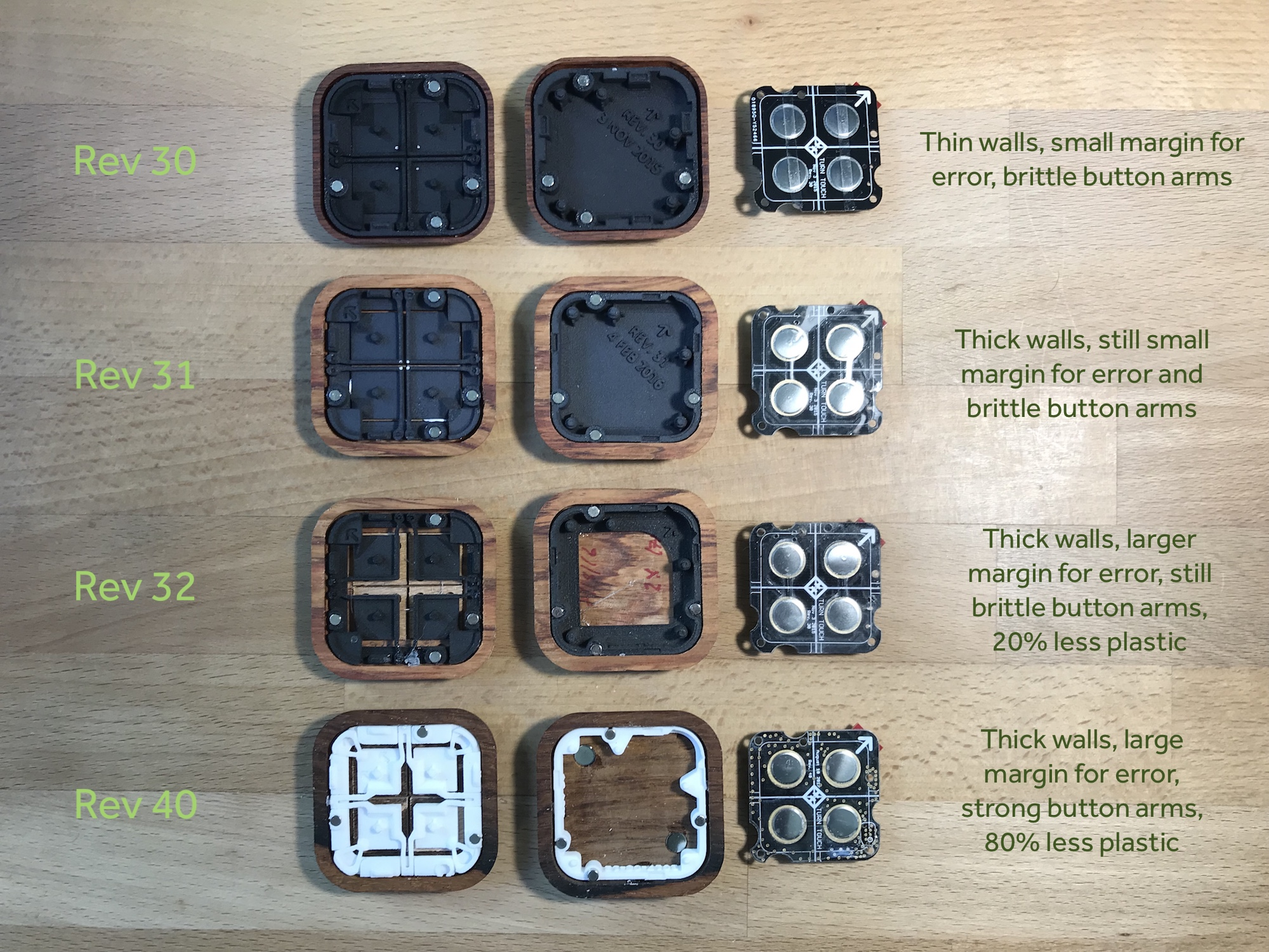
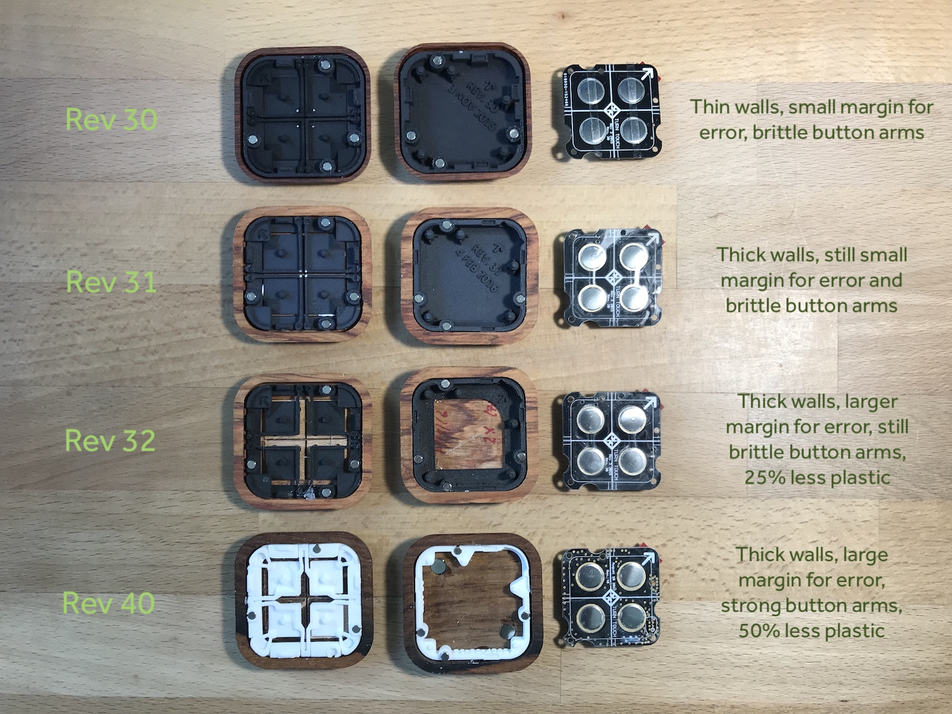
Choosing rev3.

diff --git a/portfolio/portfolio.html b/portfolio/portfolio.html
@@ -153,8 +153,6 @@
         
         <p>Part of the manufacturing process involved optimization techniques. Pictured below are changes made in revisions that reduce the amount of material used in an additive process and decrease the amount of material removed in a subtractive process. Increase the size of the wood to perform less work while on the CNC machine and decrease the size and coverage of the black plastic button holders to reduce cost.</p>
         
-        <img src="turntouch-revs.jpg" class="u-max-full-width photo">        
-        <img src="turntouch-revs2.jpg" class="u-max-full-width photo">        
         <img src="turntouch-revs3.jpg" class="u-max-full-width photo">        
         
         <p>All of the wood is pattern matched. This means that individual pieces are cut from the same board and are then ensured to be assembled together in the same configuration before they were machined. This creates a beautiful pattern on the buttons and the case which must be accounted for during the machining process.</p>
